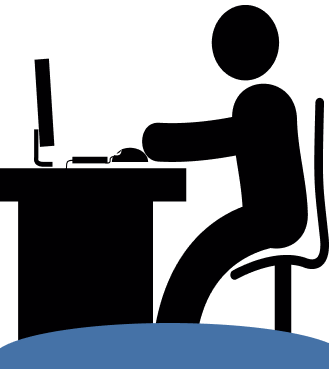
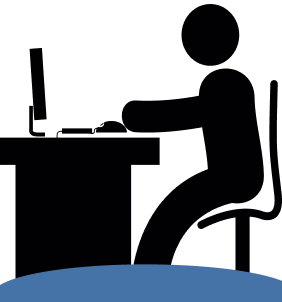
update home + mulai praktikum (size) + update navbar

diff --git a/client/application/views/v_MulaiPraktikum.php b/client/application/views/v_MulaiPraktikum.php
@@ -1,74 +1,116 @@
 <!DOCTYPE html>
 <html lang="en">
   <head>
-    <!-- bootstrap css -->
-    <link rel="stylesheet" href="https://stackpath.bootstrapcdn.com/bootstrap/4.3.1/css/bootstrap.min.css" crossorigin="anonymous">
+    <!-- Stylesheets -->
+    <link rel="stylesheet" href="<?php echo base_url(); ?>/assets/css/nilai.css">
+    <link href="https://canvasjs.com/assets/css/jquery-ui.1.11.2.min.css" rel="stylesheet" />
+    <link href="<?= base_url() ?>assets/fontawesome/css/all.css" rel="stylesheet" type="text/css" />
+    <link rel="stylesheet" href="/css/all.min">
 
-    <!-- font -->
-    <link href="https://fonts.googleapis.com/css?family=Roboto&display=swap" rel="stylesheet">
+    <!-- Fonts -->
+    <link href="https://fonts.googleapis.com/css?family=Quicksand:400,600,700&display=swap" rel="stylesheet">
+    <link href="https://fonts.googleapis.com/css?family=Roboto:400,500,700&display=swap" rel="stylesheet">
+
+    <!-- Bootstrap -->
+    <link rel="stylesheet" href="https://stackpath.bootstrapcdn.com/bootstrap/4.3.1/css/bootstrap.min.css" integrity="sha384-ggOyR0iXCbMQv3Xipma34MD+dH/1fQ784/j6cY/iJTQUOhcWr7x9JvoRxT2MZw1T" crossorigin="anonymous">
+
+    <!-- Scripts -->
+    <script src="https://code.jquery.com/jquery-3.3.1.slim.min.js" integrity="sha384-q8i/X+965DzO0rT7abK41JStQIAqVgRVzpbzo5smXKp4YfRvH+8abtTE1Pi6jizo" crossorigin="anonymous"></script>
+    <script src="https://cdnjs.cloudflare.com/ajax/libs/popper.js/1.14.7/umd/popper.min.js" integrity="sha384-UO2eT0CpHqdSJQ6hJty5KVphtPhzWj9WO1clHTMGa3JDZwrnQq4sF86dIHNDz0W1" crossorigin="anonymous"></script>
+    <script src="https://stackpath.bootstrapcdn.com/bootstrap/4.3.1/js/bootstrap.min.js" integrity="sha384-JjSmVgyd0p3pXB1rRibZUAYoIIy6OrQ6VrjIEaFf/nJGzIxFDsf4x0xIM+B07jRM" crossorigin="anonymous"></script>
+    <script src="https://canvasjs.com/assets/script/jquery-1.11.1.min.js"></script>
+    <script src="https://canvasjs.com/assets/script/jquery-ui.1.11.2.min.js"></script>
+    <script src="https://canvasjs.com/assets/script/jquery.canvasjs.min.js"></script>
+    <script src="<?php echo base_url(); ?>/assets/js/scrolling-nav.js"></script>
+
+    <title>Mulai Praktikum</title>
   </head>
+
   <style>
     body{
       background-color: #F3F2F2;
       font-family: 'Roboto', sans-serif;
     }
+    .container{
+      margin-left: 355px;
+    }
+    .margin-nav{
+      margin-left: 265px;
+    }
     .card-data{
-      width: 729px;
-      height: 574px;
+      width: 670px;
+      height: 480px;
       background: #FFFFFF;
+      border-radius: 30px;
+      box-shadow: 0px 10px 35px rgba(0, 0, 0, 0.15);
+    }
+    .card-waktu{
+      width: 200px;
+      height: 140px;
+      background: #FFFFFF;
+      box-shadow: 0px 10px 35px rgba(0, 0, 0, 0.15);
       border-radius: 30px;
     }
     .txt-18{
-      font-size: 18px;
+      font-size: 14px;
     }
     .txt-24{
-      font-size: 24px;
+      font-size: 20px;
     }
     .txt-14{
-      font-size: 14px;
+      font-size: 12px;
+    }
+    .txt-36{
+      font-size: 30px;
     }
     .form{
       background: #FFFFFF;
       box-shadow: inset 0px 10px 35px rgba(0, 0, 0, 0.15);
       border-radius: 10px;
     }
-    ul li b{
-       color: #FFFFFF;
-       position: relative;
-       list-style: none;
-       padding: 8px;
-       margin: 38px;
-       top: 24px;
-     }
-     #sidebar{
-       position: fixed;
-       width: 266px;
-       height: 100%;
-       background: #1E1E1E;
-     }
-     #sidebar h2{
-       color: #D74129;
-       position: relative;
-       width: 152px;
-       height: 48px;
-       left: 57px;
-       top: 47px;
-     }
-     #iconsiderbar{
-       /* margin-top: 30px; */
-       position: relative;
-       top: 60px;
-       right: -24px;
-       padding: 12px;
-     }
      .btn-a{
        width: 78.15px;
        height: 32px;
        background: #5088CA;
        border-radius: 15px;
      }
+     .btn-info{
+       width: 140px;
+       height: 32px;
+       background: #353537;
+       border-radius: 15px;
+       margin-left: 75px;
+       margin-right: 654px;
+     }
+     .btn-profil{
+       width: 150px;
+       height: 32px;
+       background: #353537;
+       border-radius: 15px;
+     }
   </style>
   <body>
+    <!-- navbar start -->
+    <nav class="navbar navbar-expand-lg margin-nav mb-5 mt-3">
+      <div class="collapse navbar-collapse" id="navbarSupportedContent">
+        <ul class="navbar-nav mr-auto">
+          <li class="nav-item active">
+            <button type="button" class="btn btn-secondary  btn-info txt-14">Mulai Praktikum</button>
+          </li>
+          <li class="nav-item dropdown justify-content-end">
+            <button type="button" class="btn btn-secondary btn-profil txt-14" id="navbarDropdown" role="button" data-toggle="dropdown" aria-haspopup="true" aria-expanded="false">Anasya Wulandari
+              <span> <i class="fas fa-user"></i></span>
+            </button>
+            <div class="dropdown-menu" aria-labelledby="navbarDropdown">
+              <a class="dropdown-item" href="#">Profil</a>
+              <a class="dropdown-item" href="#">Keluar</a>
+            </div>
+          </li>
+        </ul>
+      </div>
+    </nav>
+    <!-- navbar end -->
+
     <!-- sidebar start -->
     <div id="sidebar">
         <h2>IMPULSE</h2>
@@ -92,7 +134,7 @@
       <div class="row">
         <div class="mr-5 ">
           <div class="card card-data txt-18 ">
-            <div class="card-body mt-5 ml-5 mr-5">
+            <div class="card-body mt-4 ml-5 mr-5">
               <a class="txt-24 font-weight-bold ml-2">Data Praktikum </a><br>
               <table class="table table-borderless mt-3">
                 <thead>
@@ -124,21 +166,30 @@
                   </tr>
                 </tbody>
               </table>
-              <button type="button" class="btn-a txt-14 btn text-white mt-1">Mulai</button>
+              <div class=" d-flex justify-content-end">
+                <button type="button" class="btn-a txt-14 btn text-white mt-1">Mulai</button>
+              </div>
             </div>
           </div>
         </div>
-        <div class="col-2 border border-danger ml-5">
-          <div class="card" style="width: 18rem;">
-            <div class="card-body">
-              <a>WAKTU</a><br>
-              <img src="assets/image/line2.png" >
-              <a>00:01:30<a>
+        <div class="ml-2">
+          <div class="card card-waktu">
+            <div class="card-body mt-1">
+              <div class="d-flex justify-content-center mb-1 mt-1">
+                <a class="txt-18 font-weight-bold">WAKTU</a>
+              </div>
+              <div class="d-flex justify-content-center mb-2">
+                <img src="assets/image/line2.png" >
+              </div>
+              <div class="d-flex justify-content-center">
+                <a class="txt-36 align-self-center">00:01:30<a>
+              </a>
             </div>
           </div>
         </div>
       </div>
     </div>
     <!-- content end -->
+
   </body>
 </html>

diff --git a/client/application/views/v_Home.php b/client/application/views/v_Home.php
@@ -30,39 +30,45 @@
       background-color: #F3F2F2;
       font-family: 'Roboto', sans-serif;
     }
+    .margin-nav{
+      margin-left: 265px;
+    }
     .container{
-      margin-left: 320px;
+      margin-left: 385px;
     }
     .container2{
-      margin-top: 235px;
-      margin-left: 400px;
+      margin-top: 140px;
+      margin-left: 350px;
+    }
+    .txt-14{
+      font-size: 12px;
     }
     .txt-50{
-      font-size: 50px;
+      font-size: 42px;
     }
     .txt-36{
-      font-size: 36px;
+      font-size: 25px;
     }
     .txt-18{
-      font-size: 18px;
+      font-size: 14px;
     }
     .txt-16{
-      font-size: 16px;
+      font-size: 12px;
     }
     .txt-25{
-      font-size: 25px;
+      font-size: 18px;
     }
     .btn-active{
       background: #4572A7;
       box-shadow: 0px 10px 35px rgba(0, 0, 0, 0.15);
       border-radius: 30px;
-      width: 230px;
+      width: 170px;
     }
     .btn-nactive{
       background: #C4C4C4;
       box-shadow: 0px 10px 35px rgba(0, 0, 0, 0.15);
       border-radius: 30px;
-      width: 230px;
+      width: 170px;
     }
     .txt-nactive{
       color: #C4C4C4;
@@ -73,6 +79,17 @@
       border-radius: 30px;
       width: 215px;
       height: 45px;
+    }
+    .img-size{
+      width: 250px;
+      height: 290px;
+    }
+    .btn-profil{
+      width: 150px;
+      height: 32px;
+      background: #353537;
+      border-radius: 15px;
+      margin-left: 840px;
     }
   </style>
   <body>
@@ -94,45 +111,52 @@
           </ul>
       </div>
 
-      <!-- ini drop down -->
-      <div class=" dropdown">
-        <button class="btn btn-secondary dropdown-toggle drpdwn" type="button" id="dropdownProfile" data-toggle="dropdown" aria-haspopup="true" aria-expanded="false" style="border-radius: 30px; height: 45px;width: 226px;">
-          Anasya Wulandari<span> <i class="fas fa-user"></i></span>
-        </button>
-        <div class="dropdown-menu" aria-labelledby="dropdownMenuButton">
-          <a class="dropdown-item" href="#">Logout</a>
-
+      <!-- navbar start -->
+      <nav class="navbar navbar-expand-lg margin-nav mt-3">
+        <div class="collapse navbar-collapse" id="navbarSupportedContent">
+          <ul class="navbar-nav mr-auto">
+            <li class="nav-item dropdown justify-content-end">
+              <button type="button" class="btn btn-secondary btn-profil txt-14" id="navbarDropdown" role="button" data-toggle="dropdown" aria-haspopup="true" aria-expanded="false">Anasya Wulandari
+                <span> <i class="fas fa-user"></i></span>
+              </button>
+              <div class="dropdown-menu" aria-labelledby="navbarDropdown">
+                <a class="dropdown-item" href="#">Profil</a>
+                <a class="dropdown-item" href="#">Keluar</a>
+              </div>
+            </li>
+          </ul>
         </div>
-      </div>
+      </nav>
+      <!-- navbar end -->
 
     <!-- ini content -->
     <div class="container">
       <div class="container2 row mx-auto">
-        <div class="col-6 mr-5">
-          <div class="row mb-5">
-            <div class="col font-weight-bold mb-4">
+        <div class="col-5 mr-5">
+          <div class="row mb-3">
+            <div class="col font-weight-bold mb-2">
               <a class="txt-50">Selamat Datang</a> <br>
               <a class="txt-36">Anasya Wulandari</a> <br>
             </div>
             <img src="assets/image/line1.png" >
           </div>
           <div class="row">
-            <div class="col-sm font-weight-bold">
+            <div class="ml-3 font-weight-bold">
               <a class="txt-18">Praktikum</a> <br>
               <a class="txt-25">Pemrograman Web</a> <br>
               <a class="txt-16">Asisten:  Febiana Anistya</a> <br>
-              <button type="button" class="btn-active btn text-white mt-1">Mulai</button>
+              <button href="<?= base_url('index.php/MulaiPraktikum') ?>" type="button" class="btn-active btn btn-sm text-white mt-1">Mulai</button>
             </div>
-            <div class="col-sm font-weight-bold">
+            <div class="ml-4 font-weight-bold">
               <a class="txt-18 text-muted">Praktikum</a> <br>
               <a class="txt-25 text-muted">Struktur Data</a> <br>
               <a class="txt-16 text-muted">Asisten:  -</a> <br>
-              <button type="button" class="btn-nactive btn text-white mt-1">Mulai</button>
+              <button type="button" class="btn-nactive btn btn-sm text-white mt-1">Mulai</button>
             </div>
           </div>
         </div>
-        <div class="col-4 ml-5">
-          <img src="assets/image/man.png">
+        <div class=" ml-5">
+          <img class="img-size" src="assets/image/man.png">
         </div>
       </div>
     </div>

diff --git a/client/application/controllers/c_Home.php b/client/application/controllers/c_Home.php
@@ -7,4 +7,10 @@ class C_Home extends CI_Controller {
 	{
 		$this->load->view('v_Home');
 	}
+
+	public function MulaiPraktikum()
+	{
+		$this->load->view('v_MulaiPraktikum');
+	}
+	
 }
